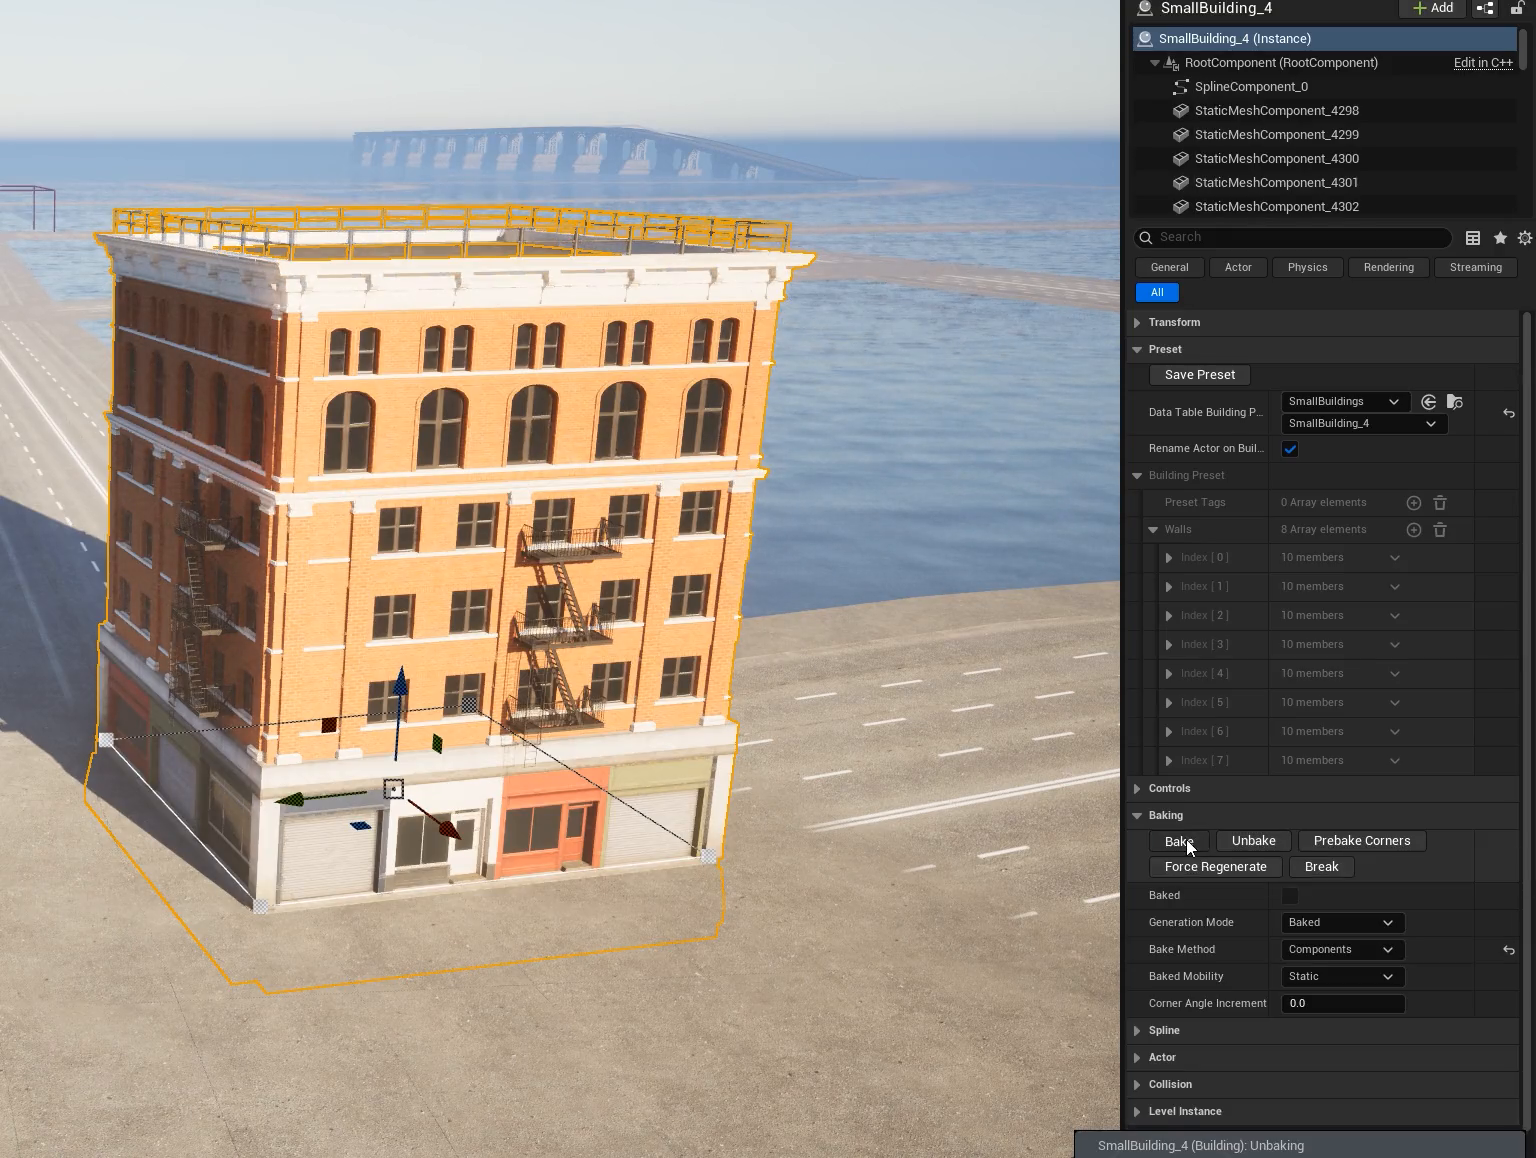
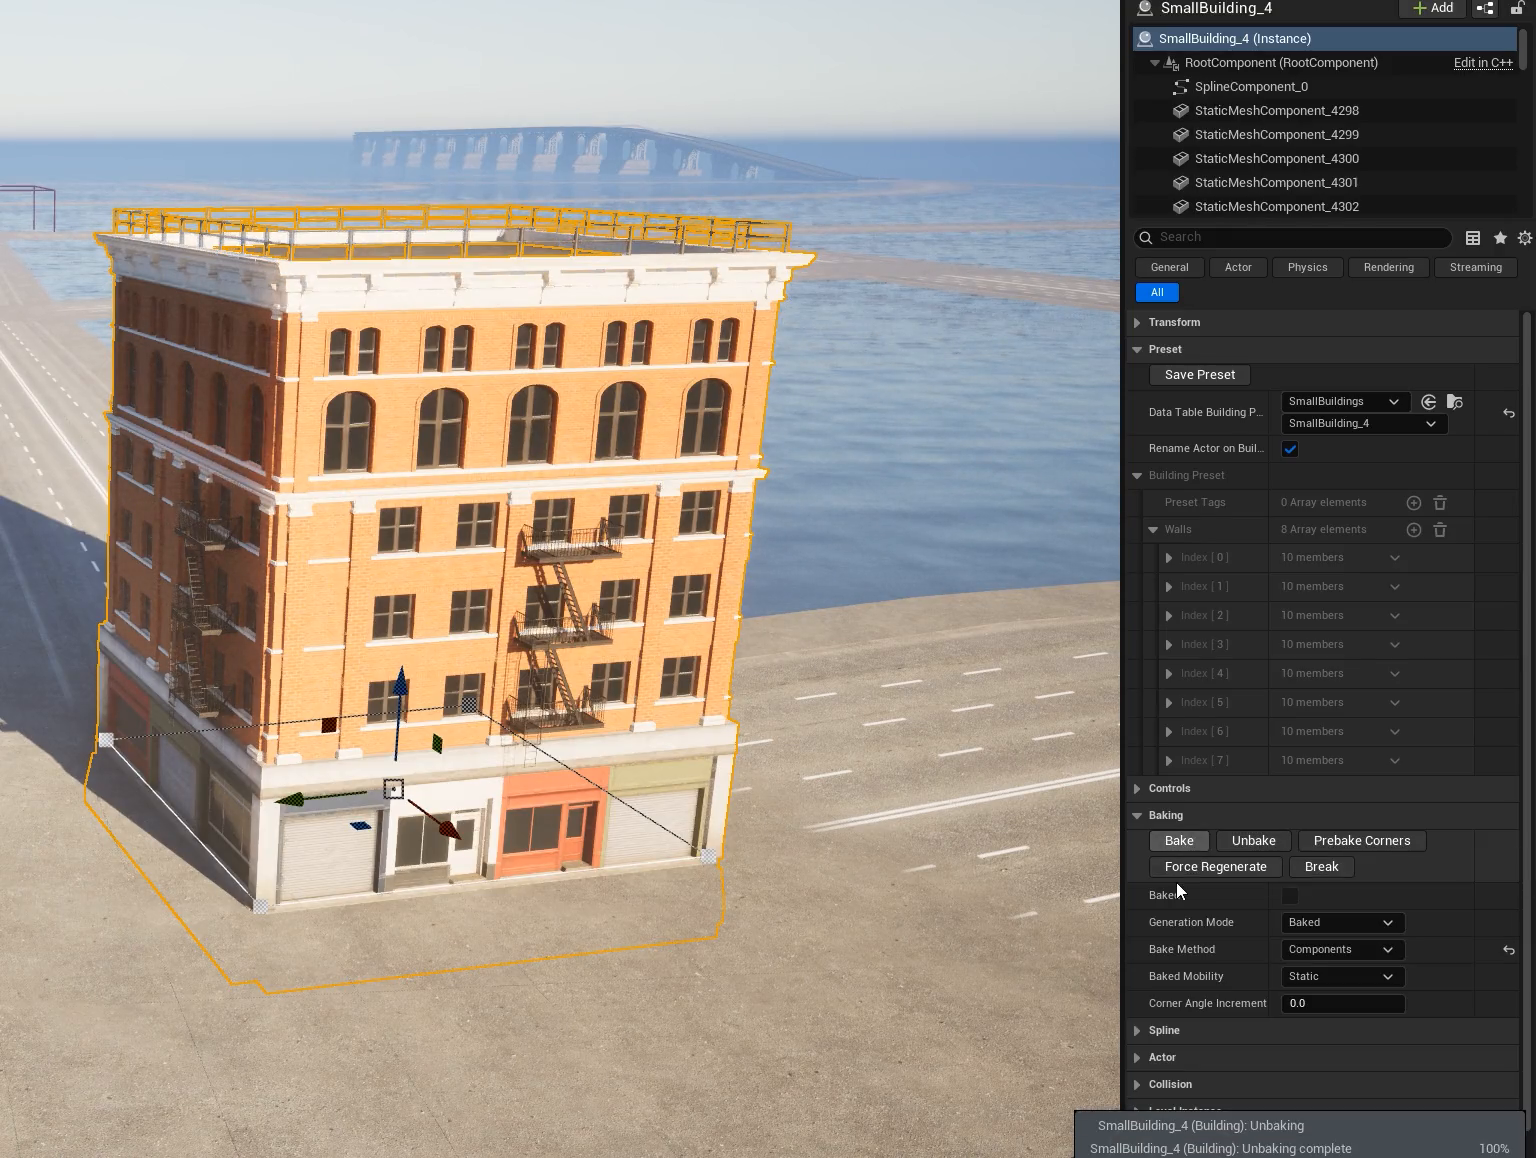
Preset Library still beside its intro; tighter unbake take
The library shot replaces a file that was a byte-for-byte copy of the
Architect Mode screenshot. It is a tall docked panel, so it sits beside
the text rather than spanning the page; ClipAside gained an image prop
for exactly this. Added a paragraph describing the two halves of the
panel.

Unbake/rebake re-recorded at 7 s instead of 13.5; 1.21 MB.

Changed region(s): [[0.6875, 0.9326, 1.0, 1.0], [0.75, 0.715, 0.8125, 0.7461]]

diff --git a/src/components/ClipAside.tsx b/src/components/ClipAside.tsx
@@ -1,21 +1,30 @@
 import React from 'react';
+import useBaseUrl from '@docusaurus/useBaseUrl';
 
 type ClipAsideProps = {
-  /** The LoopingClip (or any media) to show beside the text. */
-  media: React.ReactNode;
+  /** A LoopingClip or any element to show beside the text. */
+  media?: React.ReactNode;
+  /** Shortcut for a plain still: the image path under static/, plus its alt text. */
+  image?: string;
+  alt?: string;
   /** The paragraph(s) to sit next to it. */
   children: React.ReactNode;
 };
 
 /**
- * Text on the left, a clip on the right, sharing one row. On narrow screens the
- * clip drops below the text. When the clip is expanded it takes the full width.
+ * Text on the left, media on the right, sharing one row. On narrow screens the
+ * media drops below the text. An expanded clip takes the full row.
+ *
+ * Pass `media` for a clip, or `image` + `alt` for a still.
  */
-export default function ClipAside({media, children}: ClipAsideProps) {
+export default function ClipAside({media, image, alt, children}: ClipAsideProps) {
+  const imageUrl = useBaseUrl(image ?? '');
   return (
     <div className="clip-aside">
       <div className="clip-aside__text">{children}</div>
-      <div className="clip-aside__media">{media}</div>
+      <div className="clip-aside__media">
+        {media ?? (image ? <img alt={alt ?? ''} className="clip-aside__still" src={imageUrl} /> : null)}
+      </div>
     </div>
   );
 }

diff --git a/src/css/custom.css b/src/css/custom.css
@@ -277,6 +277,15 @@
 .clip-aside__text > :first-child {margin-top: 0;}
 .clip-aside__text > :last-child {margin-bottom: 0;}
 
+.clip-aside__still {
+  display: block;
+  width: 100%;
+  height: auto;
+  margin: 0;
+  border: 1px solid var(--sa-border);
+  border-radius: 12px;
+}
+
 .clip-aside__media:has(.looping-clip--expanded) {
   grid-column: 1 / -1;
 }

diff --git a/docs/authoring/preset-library.md b/docs/authoring/preset-library.md
@@ -3,12 +3,20 @@ title: Preset Library and DataTables
 description: Browse, save, edit, thumbnail, favorite, filter, and drag Spline Architect presets.
 ---
 
+import ClipAside from '@site/src/components/ClipAside';
+
+<ClipAside
+  image="img/screens/preset-library.png"
+  alt="The Preset Library docked as a panel: category tabs, table filter, search, the toolbar, a thumbnail grid with favorites, and the selected preset's settings below"
+>
+
 The Preset Library is the central browser for Wall, Building, Curve, Custom Piece, and Streets-compatible preset rows. Open it from the Spline Architect menu or the Architect Mode panel.
 
-<!-- CAPTURE T2-c clip: preset-drag-multi.mp4 + preset-drag-multi.png -->
-<!-- CAPTURE S9 still: preset-library.png (replaces the broken copy) -->
+It docks like any editor tab. The top half is the browser - category tabs, a DataTable filter, search, the action toolbar, and the presets themselves as a list or a thumbnail grid. The bottom half shows the selected preset's settings, so you can tweak a row without leaving the panel.
 
-![Preset Library browsing SACity presets](/img/screens/preset-library.png)
+</ClipAside>
+
+<!-- CAPTURE T2-c clip: preset-drag-multi.mp4 + preset-drag-multi.png -->
 
 ## Library controls
 
